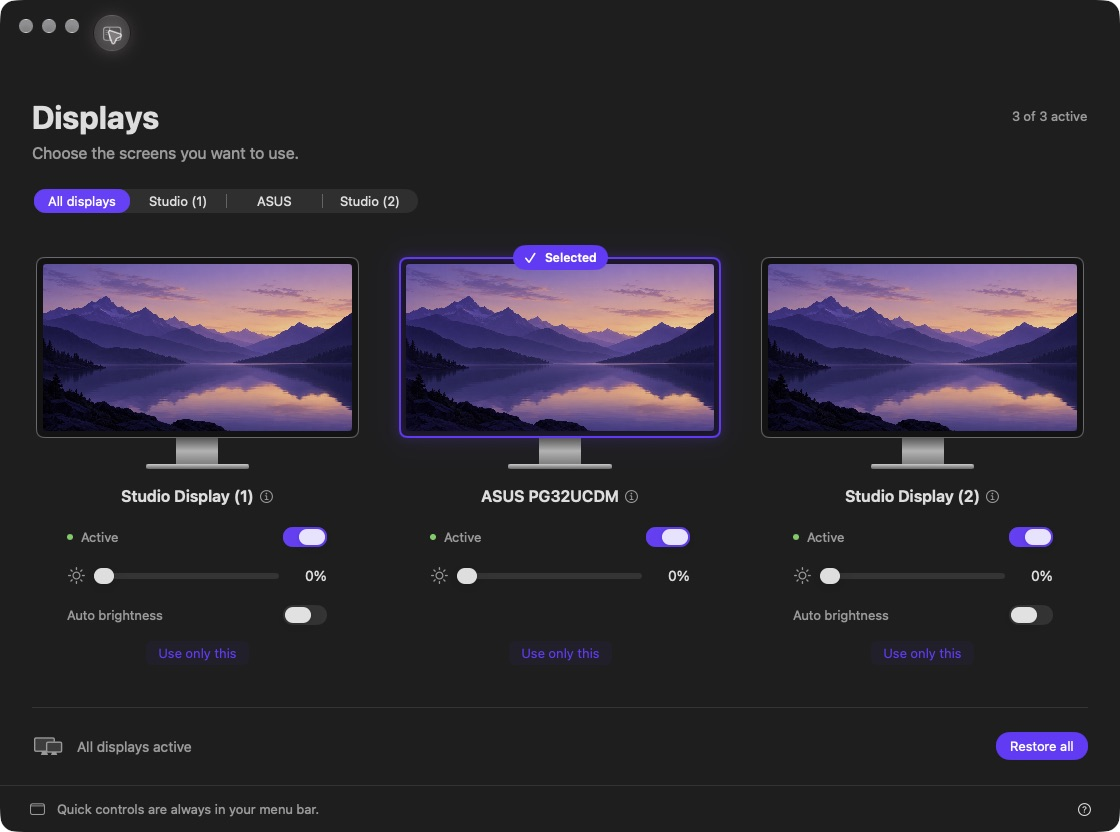
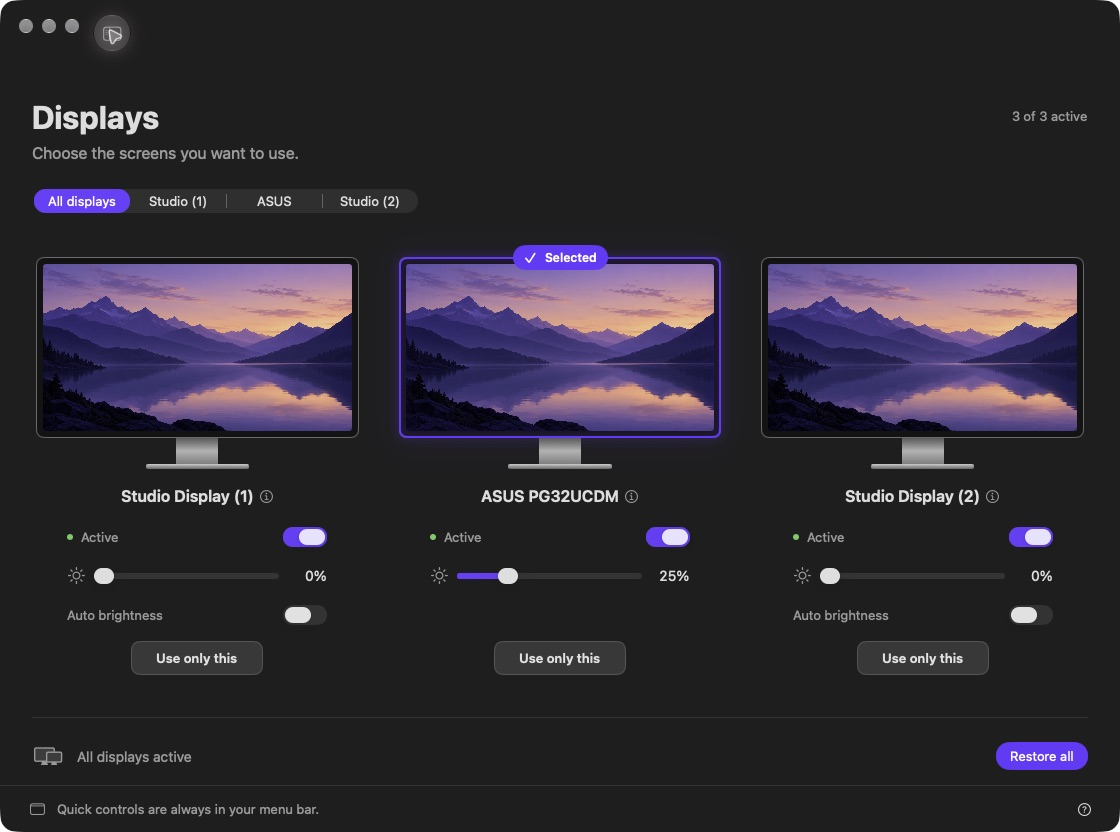
Improve display action button contrast and hover feedback

diff --git a/Sources/DisplayWindow.swift b/Sources/DisplayWindow.swift
@@ -395,11 +395,56 @@ struct DisplayPanel: View {
                 if model.supportsAuto(display) { AutoBrightnessControl(model: model, display: display) }
                 else { Color.clear.frame(height: 24).accessibilityHidden(true) }
                 Button("Use only this") { model.useOnly(display.id) }
-                    .buttonStyle(.bordered).frame(maxWidth: .infinity)
+                    .buttonStyle(DisplayActionButtonStyle()).frame(maxWidth: .infinity)
                     .disabled(model.busy || !display.available || model.isOnlyActive(display))
                     .accessibilityLabel("Use only \(display.name)")
             }.frame(maxWidth: 260).padding(.horizontal, 18)
         }.frame(maxWidth: 420).padding(.vertical, 6)
+    }
+}
+
+// Shared action treatment for the main window and expanded menu-bar controls.
+struct DisplayActionButtonStyle: ButtonStyle {
+    func makeBody(configuration: Configuration) -> some View {
+        ActionSurface(configuration: configuration)
+    }
+
+    private struct ActionSurface: View {
+        let configuration: ButtonStyleConfiguration
+        @Environment(\.isEnabled) private var isEnabled
+        @Environment(\.colorScheme) private var colorScheme
+        @Environment(\.colorSchemeContrast) private var contrast
+        @Environment(\.accessibilityReduceMotion) private var reduceMotion
+        @State private var isHovered = false
+
+        private var highlighted: Bool { isEnabled && isHovered }
+        private var pressed: Bool { isEnabled && configuration.isPressed }
+        private var fill: Color {
+            if colorScheme == .dark {
+                return Color(white: pressed ? 0.18 : highlighted ? 0.29 : 0.22)
+            }
+            return Color(white: pressed ? 0.80 : highlighted ? 0.87 : 0.94)
+        }
+
+        var body: some View {
+            configuration.label
+                .font(.system(size: 13, weight: .semibold))
+                .foregroundStyle(isEnabled ? Color.primary : Color.secondary)
+                .padding(.horizontal, 16)
+                .frame(minWidth: 132, minHeight: 34)
+                .background(fill, in: RoundedRectangle(cornerRadius: 9))
+                .overlay {
+                    RoundedRectangle(cornerRadius: 9)
+                        .strokeBorder(highlighted ? brandAccent.opacity(0.85) : Color.primary.opacity(contrast == .increased ? 0.5 : 0.18), lineWidth: 1)
+                }
+                .shadow(color: highlighted ? brandAccent.opacity(0.16) : .clear, radius: 7, y: 1)
+                .opacity(isEnabled ? 1 : 0.5)
+                .scaleEffect(pressed && !reduceMotion ? 0.98 : 1)
+                .contentShape(RoundedRectangle(cornerRadius: 9))
+                .onHover { isHovered = $0 }
+                .animation(.easeOut(duration: reduceMotion ? 0.1 : 0.16), value: highlighted)
+                .animation(.easeOut(duration: 0.10), value: pressed)
+        }
     }
 }
 

diff --git a/Sources/MenuPopover.swift b/Sources/MenuPopover.swift
@@ -103,7 +103,7 @@ private struct PopoverDisplayRow: View {
                 if model.supportsAuto(display) { AutoBrightnessControl(model: model, display: display) }
                 HStack {
                     Button("Use only this") { model.useOnly(display.id) }
-                        .buttonStyle(.bordered).disabled(model.busy || !display.available || model.isOnlyActive(display))
+                        .buttonStyle(DisplayActionButtonStyle()).disabled(model.busy || !display.available || model.isOnlyActive(display))
                         .accessibilityLabel("Use only \(display.name)")
                     Spacer()
                     PreferenceButton(model: model, display: display)

diff --git a/TESTING.md b/TESTING.md
@@ -104,6 +104,13 @@ Earlier DDC tests confirmed changes to the ASUS luminance register, but those re
 - Built and installed the update; clicked Studio Display (1), Studio Display (2), and ASUS in turn. Verified selection accessibility values and the settled rendering, then left ASUS selected. No brightness or connection controls were operated. Automated captures verify the final state, not perceived motion smoothness or rapid interruption behavior.
 - Compilation, shell syntax, strict installed signature verification, ZIP integrity, and whitespace checks passed. Existing 0.8.10 screenshots remain representative of the settled design.
 
+## Version 0.8.12 action button visibility
+
+- Replaced the faint tinted Use only this buttons with a shared 34-point-high action style: primary text, a solid neutral surface, and a visible border in light and dark appearances. The main window and expanded menu-bar controls share the style.
+- Hover brightens the surface and adds a purple border and soft shadow over 0.16 seconds. Pressing darkens the surface and adds a small compression; Reduce Motion removes compression. Disabled controls suppress hover/press emphasis, and Increase Contrast strengthens the resting border.
+- Inspected the installed dark main window with its sidebar expanded and collapsed; labels and button boundaries are clear and fit within each display's centered controls. Saved updated screenshots. No display switching or brightness actions were triggered.
+- Build, shell syntax, strict installed signature verification, ZIP integrity, and whitespace checks passed. Hover/pressed motion, disabled appearance, light mode, accessibility appearance settings, and the menu-bar rendering were not visually exercised; native automation has no pointer-hover operation.
+
 ## Build checks
 
 ```sh

diff --git a/README.md b/README.md
@@ -4,7 +4,7 @@
 
 A native macOS menu bar app for choosing which displays to use—without unplugging cables.
 
-Use one monitor exclusively, restore your workspace, and adjust each display’s brightness from a compact SwiftUI interface. Built for macOS 27+ on Apple silicon. Current version: **0.8.11**.
+Use one monitor exclusively, restore your workspace, and adjust each display’s brightness from a compact SwiftUI interface. Built for macOS 27+ on Apple silicon. Current version: **0.8.12**.
 
 ## Features
 
@@ -22,7 +22,7 @@ Display disconnection requests standby; it does not cut AC power. Actual standby
 
 ## Preview
 
-The promotional banner shows version 0.8.4; the dark and collapsed app captures show the selected-monitor glow and badge introduced in 0.8.10. View the unedited app captures in [dark appearance](docs/images/app-dark.png), [light appearance](docs/images/app-light.png), or [with the sidebar collapsed](docs/images/sidebar-collapsed.png). The app follows your system appearance.
+The promotional banner shows version 0.8.4; the dark and collapsed app captures show version 0.8.12, including the selected-monitor badge and higher-contrast action buttons. View the unedited app captures in [dark appearance](docs/images/app-dark.png), [light appearance](docs/images/app-light.png), or [with the sidebar collapsed](docs/images/sidebar-collapsed.png). The app follows your system appearance.
 
 Quick Controls keeps display switching and brightness in the menu bar:
 

diff --git a/docs/images/banner-prompt.md b/docs/images/banner-prompt.md
@@ -6,8 +6,8 @@ Updated October 12, 2026 using the built-in image-generation tool, with the real
 
 ## Source assets
 
-- `app-dark.png`: unedited 0.8.10 main window with a selected-monitor glow and badge (updated after banner generation).
-- `sidebar-collapsed.png`: unedited 0.8.10 main window with sidebar collapsed (updated after banner generation).
+- `app-dark.png`: unedited 0.8.12 main window with a selected-monitor glow, badge, and higher-contrast action buttons (updated after banner generation).
+- `sidebar-collapsed.png`: unedited 0.8.12 main window with sidebar collapsed (updated after banner generation).
 - `app-light.png`: earlier 0.8.0 light appearance capture.
 - `quick-controls.png`: earlier 0.8.0 light menu-bar popover capture.
 - `../brand/re-splay-symbol.png`: authoritative purple return-frame symbol.
